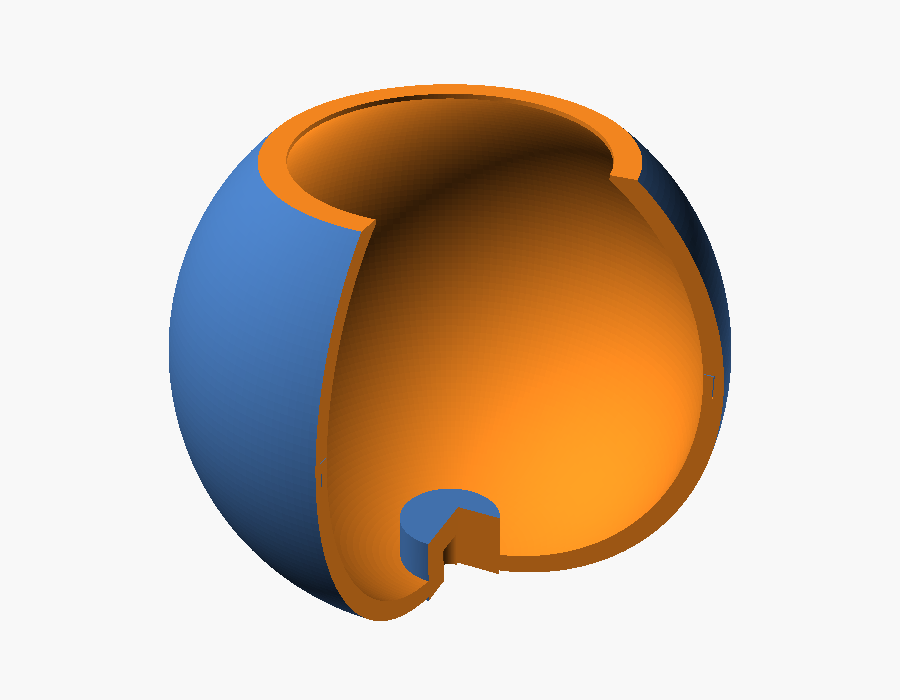
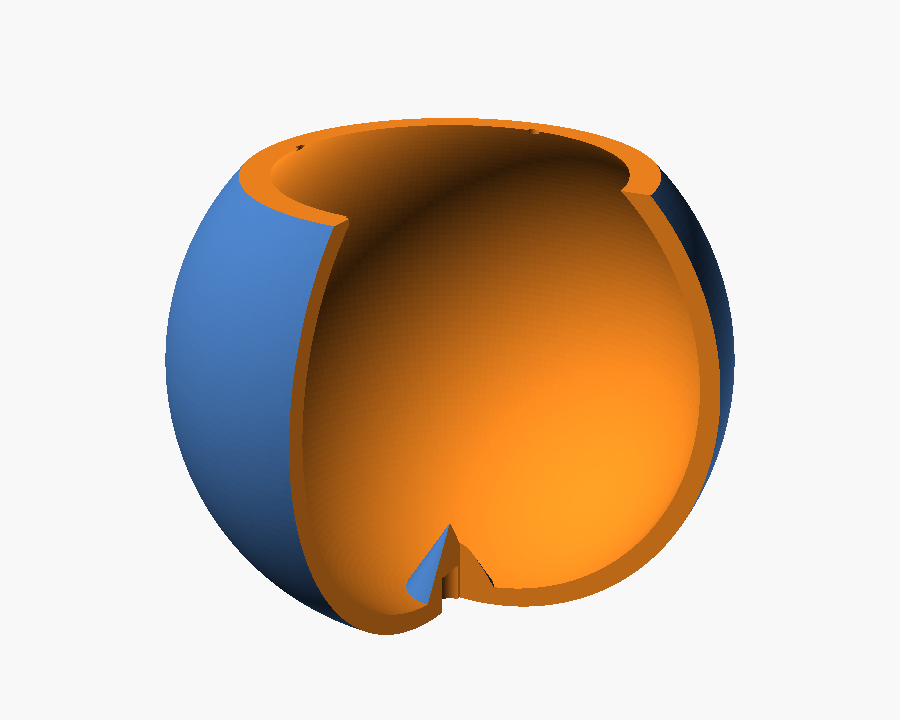
One-piece printed sphere, sized to the FRS 8 M's real frame
Adam asked for a single part whose only opening is the driver cutout, printed on
that flat. That is now part="onepiece": no equator split, no glue line, nothing
to seal but the gasket and the cable hole.

Two things the new orientation forced, neither cosmetic:

- The apex boss became a CONE. Printed flat-face-down the apex is the highest
  point, so a cylindrical boss would have hung its entire 26 mm underside in
  mid-air over the cavity — an unsupported island. A cone widens as it rises and
  carries itself, and the M6 insert still lands in solid material.
- The cable hole moved to the side wall, where the wall is vertical and it
  prints as one short bridge instead of a hole in a dome.

And the driver numbers are now measured rather than assumed. Fetched Visaton's
datasheet (Art. 2001, drawing 27.07.2018) and read the drawing: the frame is a
78 mm SQUARE with corner tabs 93 mm across the diagonal, on an 83 mm bolt
circle, 47 mm deep. The 88 mm seating flat this model had would not have seated
it. The flat is 98 mm now, clearing by 2.5 mm a side, and the screw holes are
enabled because the bolt circle is no longer a guess. The datasheet PDF goes to
the private papers repo, not here.

Verified with admesh: one part, zero disconnected edges, zero degenerate facets.
Prints with no support; the first layer is an 11.5 mm ring under a 116 mm tall
part, so it wants a brim.

Changed region(s): [[0.2489, 0.12, 0.84, 0.9], [0.1867, 0.54, 0.2178, 0.6], [0.1867, 0.39, 0.2178, 0.45]]

diff --git a/hardware/hub-source/README.md b/hardware/hub-source/README.md
@@ -5,43 +5,81 @@ and tones, motor off. Acoustic reasoning and the alternatives are in
 [`../../docs/hub-source-options.md`](../../docs/hub-source-options.md); that document governs
 where the two disagree.
 
-`hub-sphere.scad` is the model. The STLs are **not committed** — they are 16 MB and one
+`hub-sphere.scad` is the model. The STLs are **not committed** — they are large and one
 command regenerates them:
 
 ```bash
-openscad -D 'part="bottom"' -o bottom.stl hub-sphere.scad
-openscad -D 'part="top"'    -o top.stl    hub-sphere.scad
-openscad -D 'part="section"' -o section.png hub-sphere.scad   # inspection render
+openscad -D 'part="onepiece"' -o onepiece.stl hub-sphere.scad   # the build
+openscad -D 'part="section"'  -o section.png  hub-sphere.scad   # inspection render
+admesh -b onepiece-print.stl onepiece.stl                        # tidies 17 stray normals
 ```
+
+**One piece.** The only opening is the driver cutout, and the part prints with that flat
+face on the bed. No split, no glue line, nothing to seal but the driver gasket and the
+cable hole. The older split-at-the-equator halves are still in the file
+(`part="top"` / `"bottom"`) but the one-piece is the build.
 
 Every number is a parameter at the top of the file. The ones that matter:
 
 | parameter | default | note |
 |---|---|---|
-| `volume_l` | 1.0 | **net** air volume, after the driver-flat cap and cone displacement are added back |
+| `volume_l` | 1.0 | **net** air volume, after the driver-flat cap, the apex cone and cone displacement are taken off |
 | `wall` | 5.0 | shell thickness |
-| `driver_cutout_d` | 75.0 | FRS 8 M datasheet |
-| `driver_flat_d` | 88.0 | seating face — **verify against the frame in your hand** |
-| `driver_displacement_ml` | 20 | estimate; measure the driver and correct it |
-| `fit_clr` | 0.25 | spigot clearance, loosen on a sloppy printer |
+| `driver_cutout_d` | 75.0 | datasheet |
+| `driver_flat_d` | 98.0 | seating face; must clear the 93 mm frame diagonal |
+| `driver_displacement_ml` | 20 | estimate — see below, it barely matters |
+| `boss_d` / `boss_h` | 30 / 24 | apex cone the M6 insert screws into |
 
-With the defaults: internal dia **125.8 mm**, external **135.8 mm**, net 1000 ml,
-so Fc 181 Hz / Qtc 0.71 with the FRS 8 M (fs 125, Qts 0.49, Vas 1.1 l).
+With the defaults: internal dia **126.8 mm**, external **136.8 mm**, overall printed height
+**116 mm**, net 1000 ml → **Fc 181 Hz, Qtc 0.71** with the FRS 8 M (fs 125, Qts 0.49, Vas 1.1 l).
+
+## Driver data — from the datasheet, not from guesswork
+
+Visaton FRS 8 M, Art. No. 2001, 8 Ω. Datasheet PDF (drawing dated 27.07.2018, sheet
+(c) 2023) held privately at `papers/datasheets/Visaton_2023_datasheet_FRS-8-M-2001.pdf`.
+
+| | |
+|---|---|
+| cut-out | **Ø75 mm** |
+| frame | **78 mm square** with corner tabs, **93 mm across the diagonal** |
+| bolt circle | **Ø83 mm**, slots 4.5 × 5.5 mm |
+| overall depth | **47 mm**, flange 2.1 mm |
+| rated power / sensitivity | 30 W / 88 dB (1 W, 1 m) |
+| xmech | ±2.5 mm |
+| fs / impedance | 125 Hz / 8 Ω |
+
+The frame being square is the trap: an 8 cm driver suggests a ~80 mm round flange, and an
+earlier version of this model had an 88 mm seating flat, which the 93 mm diagonal would not
+have sat on. The flat is now 98 mm, clearing by 2.5 mm per side.
+
+The driver reaches to 2.8 mm past the centre of the sphere, against a cavity floor at
+−63.4 mm, so there is no clash. `driver_displacement_ml` is still an estimate; it hardly
+matters, because 20 ml against 60 ml moves Fc by about 2 Hz.
 
 ## Printing
 
-- Two hemispheres, split at the equator, located by a spigot that sits in the inner
-  half of the wall so the outside stays flush. Glue and seal on assembly.
+Orientation: **driver flat down on the bed**, which is what `orient_for_print` produces.
+
+- **Use a brim.** The first layer is an 11.5 mm wide ring under a part 116 mm tall. That is
+  the one genuine risk in the print.
+- The wall leans out at **45.8° from vertical** at the bed and gets more vertical from there
+  to the equator, then closes as a dome. Right on the usual 45° rule — fine on most printers,
+  and a couple of degrees of extra flat (`driver_flat_d`) buys margin if yours struggles.
+- The apex is a **cone**, not a cylinder: printed this way up it widens as it rises and
+  supports itself. A cylindrical boss would hang its whole underside in mid-air over the
+  cavity. No support material is needed anywhere.
+- The 6 mm cable hole is in the side wall where the wall is vertical, so it prints as one
+  short bridge.
 - **Seal the inside.** Printed walls leak through the layer lines and a leaky sealed
   box is not a sealed box. 4+ perimeters, then brush the interior with epoxy or
   sealant. This is the step most likely to be skipped and most likely to matter.
 - ~10 g of loose polyester inside. The first internal mode of a 126 mm cavity is near
   1.9 kHz and a sphere focuses internal reflections at its centre, so do not omit it.
-- Cable hole is 6 mm, off-axis by 25 mm, sealed with silicone.
-- The south pole carries a flat pad with a blind hole for an M6 heat-set insert, with
-  solid material behind it so the insert never breaks into the sealed volume.
-- Screw holes for the driver are **off** by default — drill them after measuring the
-  real frame rather than trusting a guessed bolt circle.
+- Cable hole 6 mm, sealed with silicone once wired.
+- The apex carries a blind hole for an M6 heat-set insert, drilled into solid cone
+  material so it can never breach the sealed volume.
+- Driver screw holes are 3.2 mm pilots on the datasheet's 83 mm circle — open them to
+  4.3 mm for M4 clearance, or 5.6 mm for M4 heat-set inserts, whichever you prefer.
 
 ## Orientation in use
 

diff --git a/docs/hub-source-options.md b/docs/hub-source-options.md
@@ -69,7 +69,8 @@ driver; light stuffing gives most of it back. The alignment barely moves over th
 
 ### 3D-printed sphere (alternative, modelled 2026-09-15)
 
-A parametric model is in `hardware/hub-source/hub-sphere.scad` with notes in that
+A parametric model is in `hardware/hub-source/hub-sphere.scad` — **one piece**, the driver cutout its
+only opening, printed flat-face-down with no support and no glue line with notes in that
 directory's README: 1 litre net, 5 mm wall, internal dia 125.8 mm, external 135.8 mm,
 split at the equator on a spigot, M6 mount pad at the south pole, driver firing up.
 
@@ -100,7 +101,11 @@ offcut is enough. Butt joints, the two large panels outermost.
   what the eleven microphones see around the azimuth.
 - 6 mm cable hole in the face opposite the driver, sealed with silicone.
 - Glue and seal every joint. No port, no vent. About 10 g of polyester, loosely packed.
-- Measure the driver flange on arrival; Visaton publishes the cutout but not the frame.
+- Driver mechanics, from the datasheet drawing (27.07.2018), held at
+  `papers/datasheets/Visaton_2023_datasheet_FRS-8-M-2001.pdf`: cut-out Ø75 mm, frame a
+  **78 mm square** with corner tabs **93 mm across the diagonal**, bolt circle Ø83 mm through
+  4.5 × 5.5 slots, overall depth 47 mm, flange 2.1 mm, 30 W, xmech ±2.5 mm. The square frame is
+  the trap: the seating face has to clear 93 mm, not the ~80 mm a round 8 cm driver implies.
 
 ### Orientation and mounting
 
